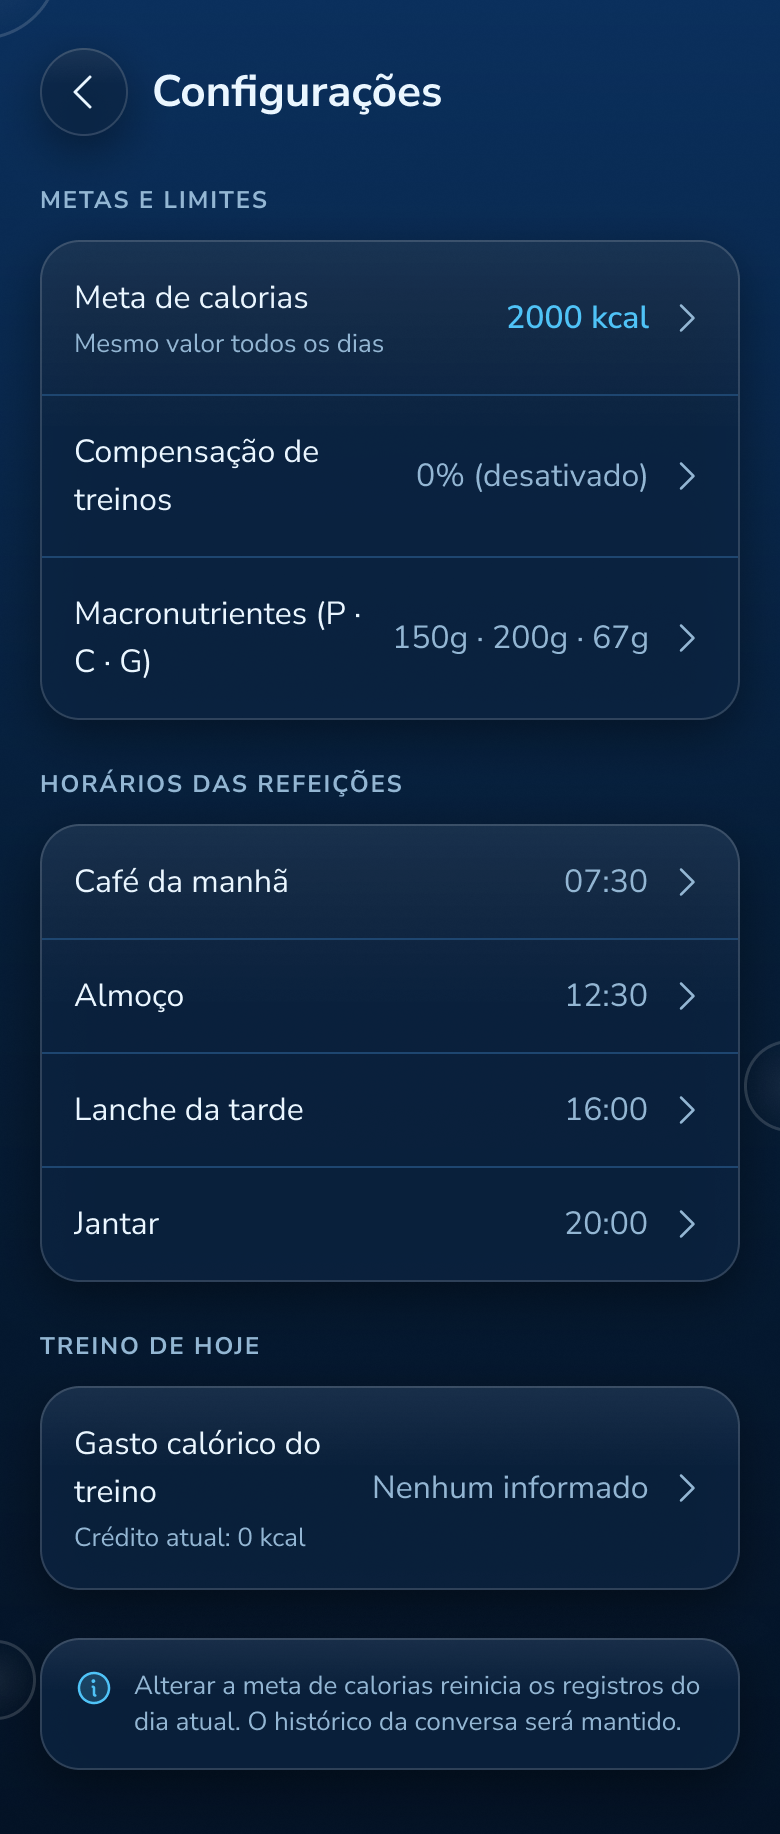
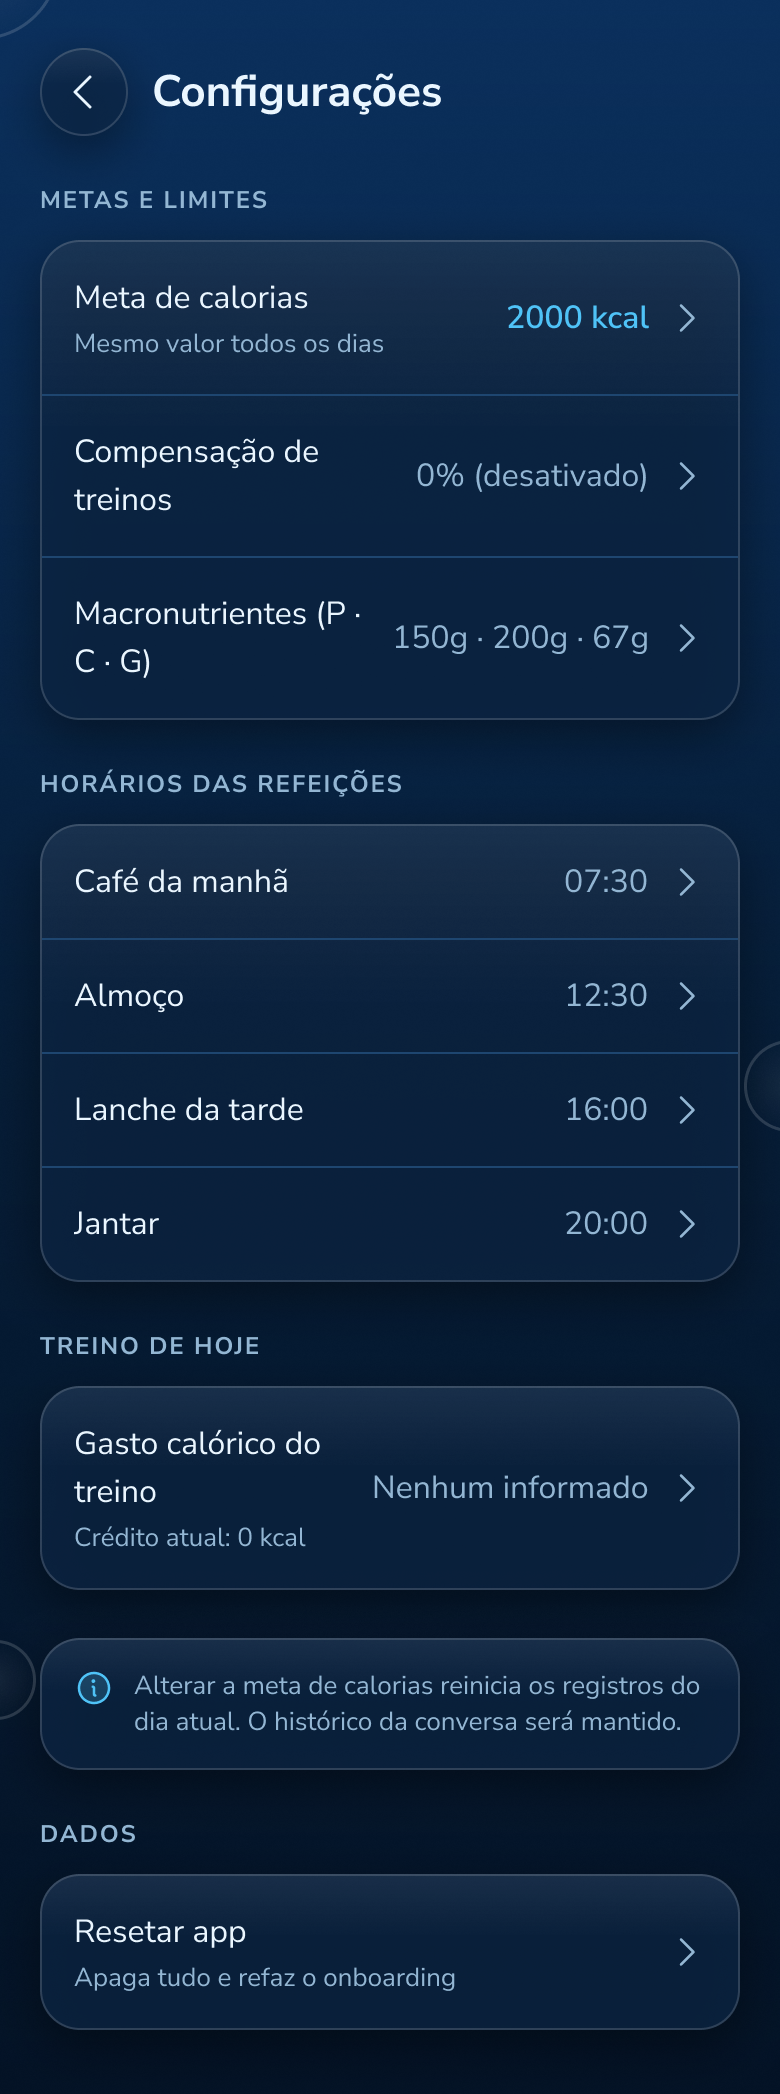
docs(design): D15 Config app reset, cfg changed and cfgR exported

diff --git a/docs/design/plans/completed/d15-config-app-reset.md b/docs/design/plans/completed/d15-config-app-reset.md
@@ -1,0 +1,79 @@
+# Plan — D15 Config: app reset
+
+- Status: Concluído (approved 06/10/2026; owner OK in Figma 06/10/2026)
+- Date: 06/10/2026
+- Owning context: `design`
+- Executable boundary: the Config flow in Figma `Design`; no app/server code. Repository outputs: the changed `cfg` gold, the new gold `cfgR`, their entries in `tools/export-figma.mjs`, the gold inventory and design documentation.
+- Prerequisites: [ADR-040](../../../produto/adrs/ADR-040-home-card-gestures-app-reset.md) accepted by the approval of this plan or of [D14](d14-home-card-gestures.md).
+- Figma MCP budget: at most 50 calls, within the ceiling and rollover rules of [ADR-031](../../adrs/ADR-031-figma-source-of-truth.md).
+
+Authorization and delivery follow [SDD](../../../sdd/README.md). Approval: `Aprovo o plano docs/design/plans/d15-config-app-reset.md. Implemente o plano aprovado.`
+
+## Objective
+
+Draw the reset entry on Config and its confirmation (ADR-040 decision 2), for [A53](../../../android/plans/a53-config-app-reset.md).
+
+## Sources and proposed gold
+
+Behavior: ADR-040. Layout: the live `cfg` and `wipe` frames (the `Dialog/Confirm` Tone=Danger pattern), [memoria-push](../../../produto/specifications/memoria-push.md) § Config, the [gold inventory](../../../qa/README.md#golds).
+
+The id below is reserved by this plan until it enters the inventory at export. It was unused at planning time; recheck before writing to Figma.
+
+| Gold | Frame title | State |
+|---|---|---|
+| `cfg` (changed) | Config | A last block `Dados` below the note card, one setting row `Resetar app` with the caption `Apaga tudo e refaz o onboarding`, in the danger tone used by `wipe` for its icon only; no value on the right. |
+| `cfgR` (new) | Config — Resetar app | `Dialog/Confirm` Tone=Danger over the blurred Config: title `Resetar o app?`; body `Apaga perfil, metas, refeições, registros, conversa e memória deste aparelho. Depois você refaz o onboarding. Não dá para desfazer.`; primary `Apagar tudo`; secondary `Cancelar`. |
+
+Proposed copy is final once the owner approves the frames; A53 copies it from the gold. If the full `cfg` list no longer fits the 390 × 844 frame, the frame grows with the content as the other long golds do; `cfgS` and `wipe` keep their bytes unless the discovery shows the new block in their blurred background.
+
+## Scope
+
+1. **Discovery before any write.** Read `cfg`, `cfgS`, `wipe` and the `Dialog/Confirm` and setting-row components. Record in Results each element as existing or ADR-040, and the node ids.
+2. **Components.** Reuse the setting row, `Label/Section` and `Dialog/Confirm` Tone=Danger; no new component, no new token. The accent stays an accent.
+3. **Frames.** Light first, Dark by variable mode. Frame names `cfgR · Config — Resetar app · Light|Dark`. Check the dialog body at large text.
+4. **Owner gate.** Screenshot each changed or new frame, move this plan to `pending_manual_validation/`, record the call count. No export before the owner's OK in Figma.
+5. **Export after OK.** Add `cfgR` to the exporter and the inventory; `node tools/export-figma.mjs --only cfg,cfgR` (plus any id the discovery added); `node tools/check-figma.mjs`, `node tools/check-docs.mjs`.
+
+## Intended documentation changes
+
+`cfgR` enters the [gold inventory](../../../qa/README.md#golds). The Config spec changes at A53's Completion.
+
+## Out of scope
+
+Compose, Home, onboarding frames (O1 after a reset is the existing `o1`), other Config sheets.
+
+## Validation
+
+1. Discovery table before the first Figma mutation.
+2. One screenshot per changed or new frame (Light, Dark); no overlap, no detached instances.
+3. Explicit owner review in Figma with corrections resolved.
+4. Exporter, inventory and PNGs agree; check-figma and check-docs pass; no unrelated gold diff.
+5. SDD git delivery.
+
+## Results
+
+### Discovery (06/10/2026, read only, before any write)
+
+Section `Config e push · D7` (`78:3422`, `Release 1`). Light / Dark frames: `cfg` `78:3425` / `78:3664`, `cfgS` `78:3520` / `78:3695`, `wipe` `78:3596` / `78:3723`, `push` `78:3646` / `78:3757`.
+
+| Element | Source | Classification |
+|---|---|---|
+| `cfg`: Header, blocks Metas e limites, Horários das refeições, Treino de hoje, `Card/Note`, bubbles | code (`ConfigScreen`) | `app`, unchanged |
+| `cfg`: block `DADOS` with `Row` `Resetar app` / `Apaga tudo e refaz o onboarding`, no value | ADR-040 decision 2 | new, built by cloning the Treino de hoje block (same `Label/Section`, group and setting-row instance) |
+| `cfgR`: blurred Config behind `overlay/scrim`, `Dialog` Tone=Danger | the `wipe` frame (`WipeDialog` in code) | `app` pattern, cloned |
+| `cfgR`: title, body, action, secondary text | ADR-040, copy of this plan | new copy |
+| `cfgS`, `wipe` | each holds its own Config copy; the new block would sit below the 844 px fold | unchanged, keep their bytes |
+
+The setting row has no icon or danger tone (`Value tone` = Accent \| Muted only), so the reset row uses the plain row; danger shows only in the dialog, as in `wipe`. No new variant.
+
+### Figma change (06/10/2026)
+
+- `cfg` Light `78:3425` / Dark `78:3664`: new last block `Block · DADOS` (`Label/Section` `DADOS`, one setting-row instance `Resetar app`, detail `Apaga tudo e refaz o onboarding`, no value, chevron), cloned from the Treino de hoje block. The frame grows from 917 to 1047 px.
+- `cfgR` Light `135:4306` / Dark `135:4375` (Dark = clone with the `Dark` mode of the color collection): clone of `wipe` with the same block in its Config copy, scrim and `Dialog` Tone=Danger, title `Resetar o app?`, body `Apaga perfil, metas, refeições, registros, conversa e memória deste aparelho. Depois você refaz o onboarding. Não dá para desfazer.`, action `Apagar tudo`, secondary `Cancelar`; dialog centered (y 224, 396 px). The danger icon is the Tone's fixed counter-clockwise arrow, as in `wipe`.
+- Section `Config e push · D7` widened by 470 px; `cfgR` sits after `wipe`, `push` moved right. No new component, variant or token; all instances attached (26 per `cfgR` frame).
+- Figma MCP calls: 4 of 50 (whoami, 1 discovery read, 1 write, 1 fix plus read-back). Review images from `export-figma.mjs --dry-run`.
+- Owner review: OK in Figma on 06/10/2026, no fixes.
+
+### Export (06/10/2026)
+
+`cfgR` mapped in `tools/export-figma.mjs` (Light `135:4306`, Dark `135:4375`) and added to the [gold inventory](../../../qa/README.md#golds). `node tools/export-figma.mjs --only cfg,cfgR`: `cfg` 1834 → 2094 px (both themes), `cfgR` new (both themes). `node tools/check-figma.mjs`: 76 golds verified. `node tools/check-docs.mjs` passes. Next: [A53](../../../android/plans/a53-config-app-reset.md).

diff --git a/docs/android/plans/a53-config-app-reset.md b/docs/android/plans/a53-config-app-reset.md
@@ -5,7 +5,7 @@
 - Owning context: `android`
 - Executable boundary: `apps/android/` (Config screen and ViewModel, a reset use case over Room, memory file, photo store and push, navigation, telemetry, tests) plus `tools/capture-config.sh`.
 - Related documentation: [memoria-push](../../produto/specifications/memoria-push.md) § Config, [perfil-onboarding](../../produto/specifications/perfil-onboarding.md), [Room](../specifications/room-v2.md) (no schema change), Android validation and plan indexes.
-- Prerequisites: [D15](../../design/plans/d15-config-app-reset.md) `Concluído` with `cfg` and `cfgR` exported; ADR-040 accepted. Independent of [A52](a52-home-card-gestures.md); not run in parallel with another Android plan.
+- Prerequisites: [D15](../../design/plans/completed/d15-config-app-reset.md) `Concluído` with `cfg` and `cfgR` exported; ADR-040 accepted. Independent of [A52](a52-home-card-gestures.md); not run in parallel with another Android plan.
 
 Authorization and delivery follow [SDD](../../sdd/README.md). Approval: `Aprovo o plano docs/android/plans/a53-config-app-reset.md. Implemente o plano aprovado.`
 

diff --git a/docs/design/plans/README.md b/docs/design/plans/README.md
@@ -25,7 +25,7 @@ Golds per flow (ids unchanged, inventory in [docs/qa/README.md](../../qa/README.
 | Splash and onboarding | `splash`, `o1`, `o1e`, `o2`, `o3`, `o3t`, `o3s`, `o4` |
 | Chat core | `chat0`, `chatL`, `chatQ`, `chatE`, `chatT`, `chatP`, `chatX` |
 | Chat records and memory | `chatF`, `chatA`, `chatG`, `chatU`, `chatD`, `chatR`, `chatM`, `chatS` |
-| Config and push | `cfg`, `cfgS`, `wipe`, `push` |
+| Config and push | `cfg`, `cfgS`, `wipe`, `cfgR`, `push` |
 
 ## Figma review gate
 
@@ -62,7 +62,7 @@ Behavior: [ADR-040](../../produto/adrs/ADR-040-home-card-gestures-app-reset.md).
 | Step | Plan | Depends on |
 |---|---|---|
 | Design | D14 — Home: empty card copy ([`completed/`](completed/)) | — |
-| Design | [D15](d15-config-app-reset.md) — Config: app reset (`cfg`, `cfgR`) | — |
+| Design | D15 — Config: app reset (`cfg`, `cfgR`) ([`completed/`](completed/)) | — |
 | Client | [A52](../../android/plans/a52-home-card-gestures.md) — Home: tap to record, long press to skip | D14 |
 | Client | [A53](../../android/plans/a53-config-app-reset.md) — Config: app reset | D15 |
 

diff --git a/docs/qa/README.md b/docs/qa/README.md
@@ -24,7 +24,7 @@ home0.png · home1.png · homeX.png · homeW.png
 chat0.png · chatL.png · chatQ.png · chatE.png · chatT.png · chatP.png · chatX.png
 chatF.png · chatG.png · chatA.png · chatR.png · chatM.png · chatS.png · chatU.png · chatD.png
 chatI.png · chatIC.png · chatTI.png
-cfg.png · cfgS.png · wipe.png · push.png
+cfg.png · cfgS.png · wipe.png · cfgR.png · push.png
 land.png · landM.png · priv.png
 ```
 
